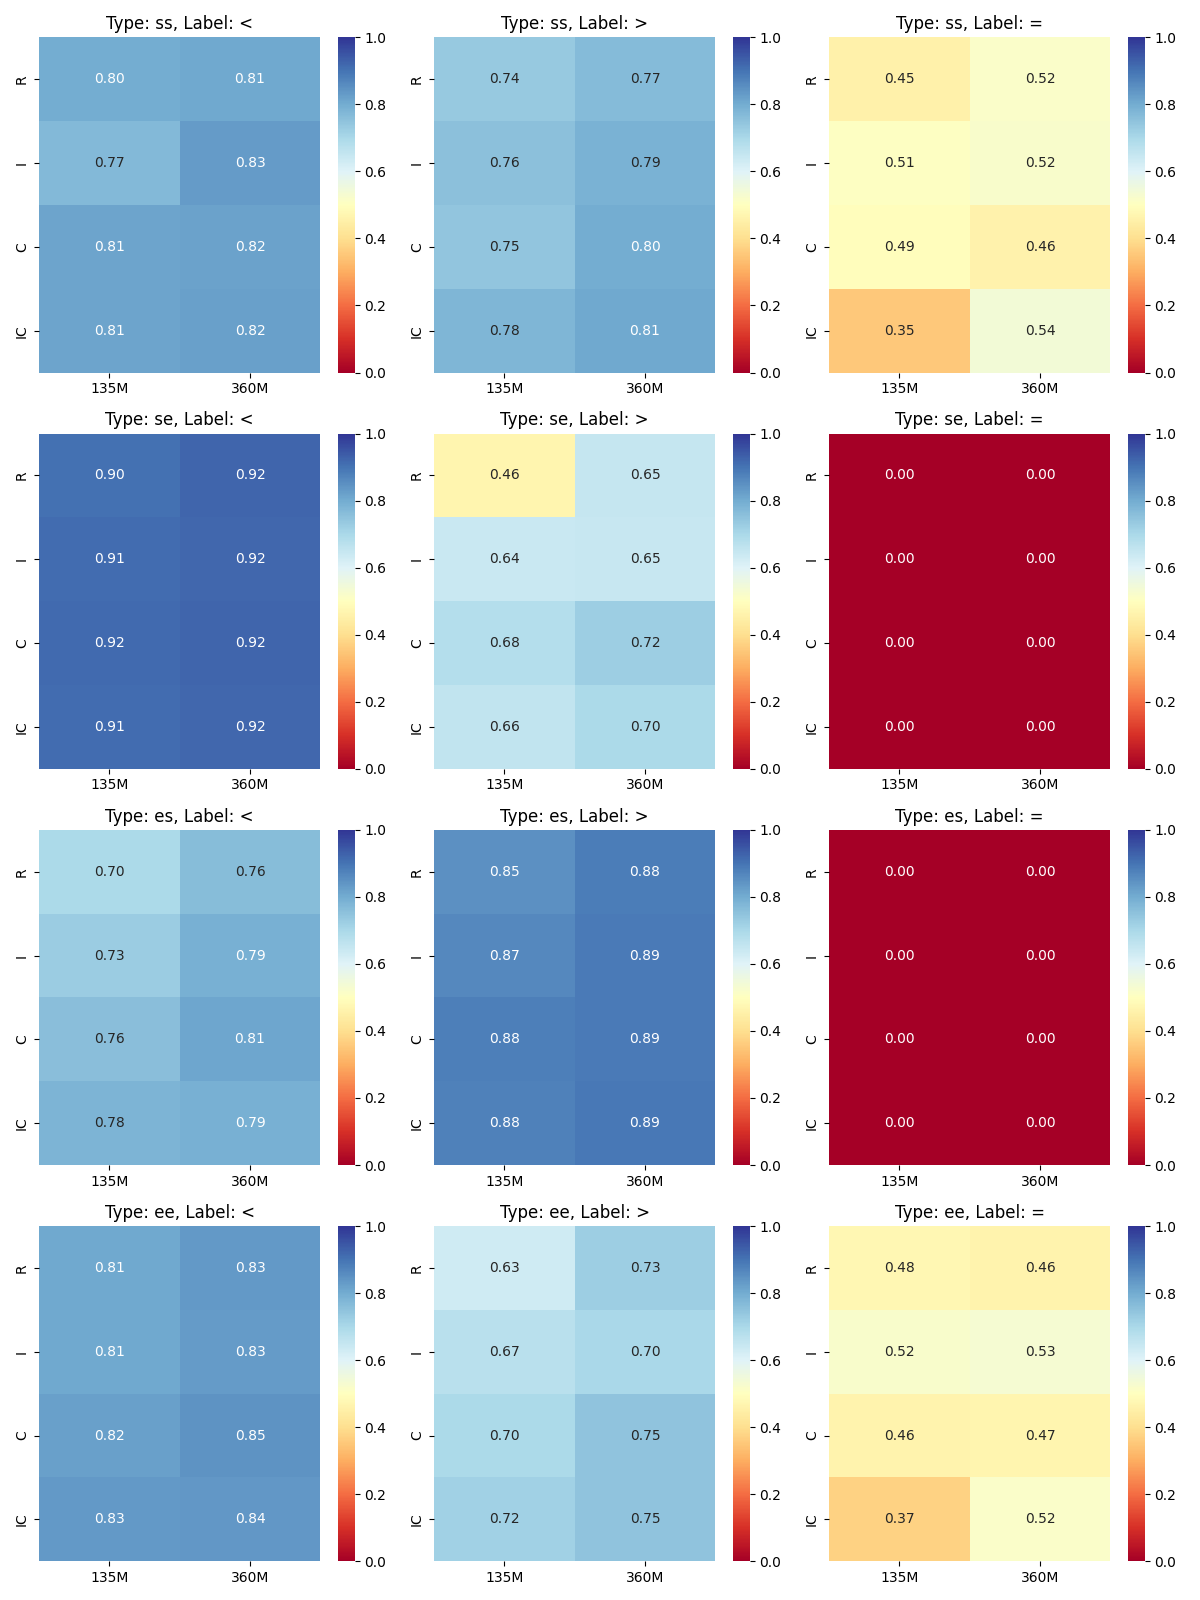
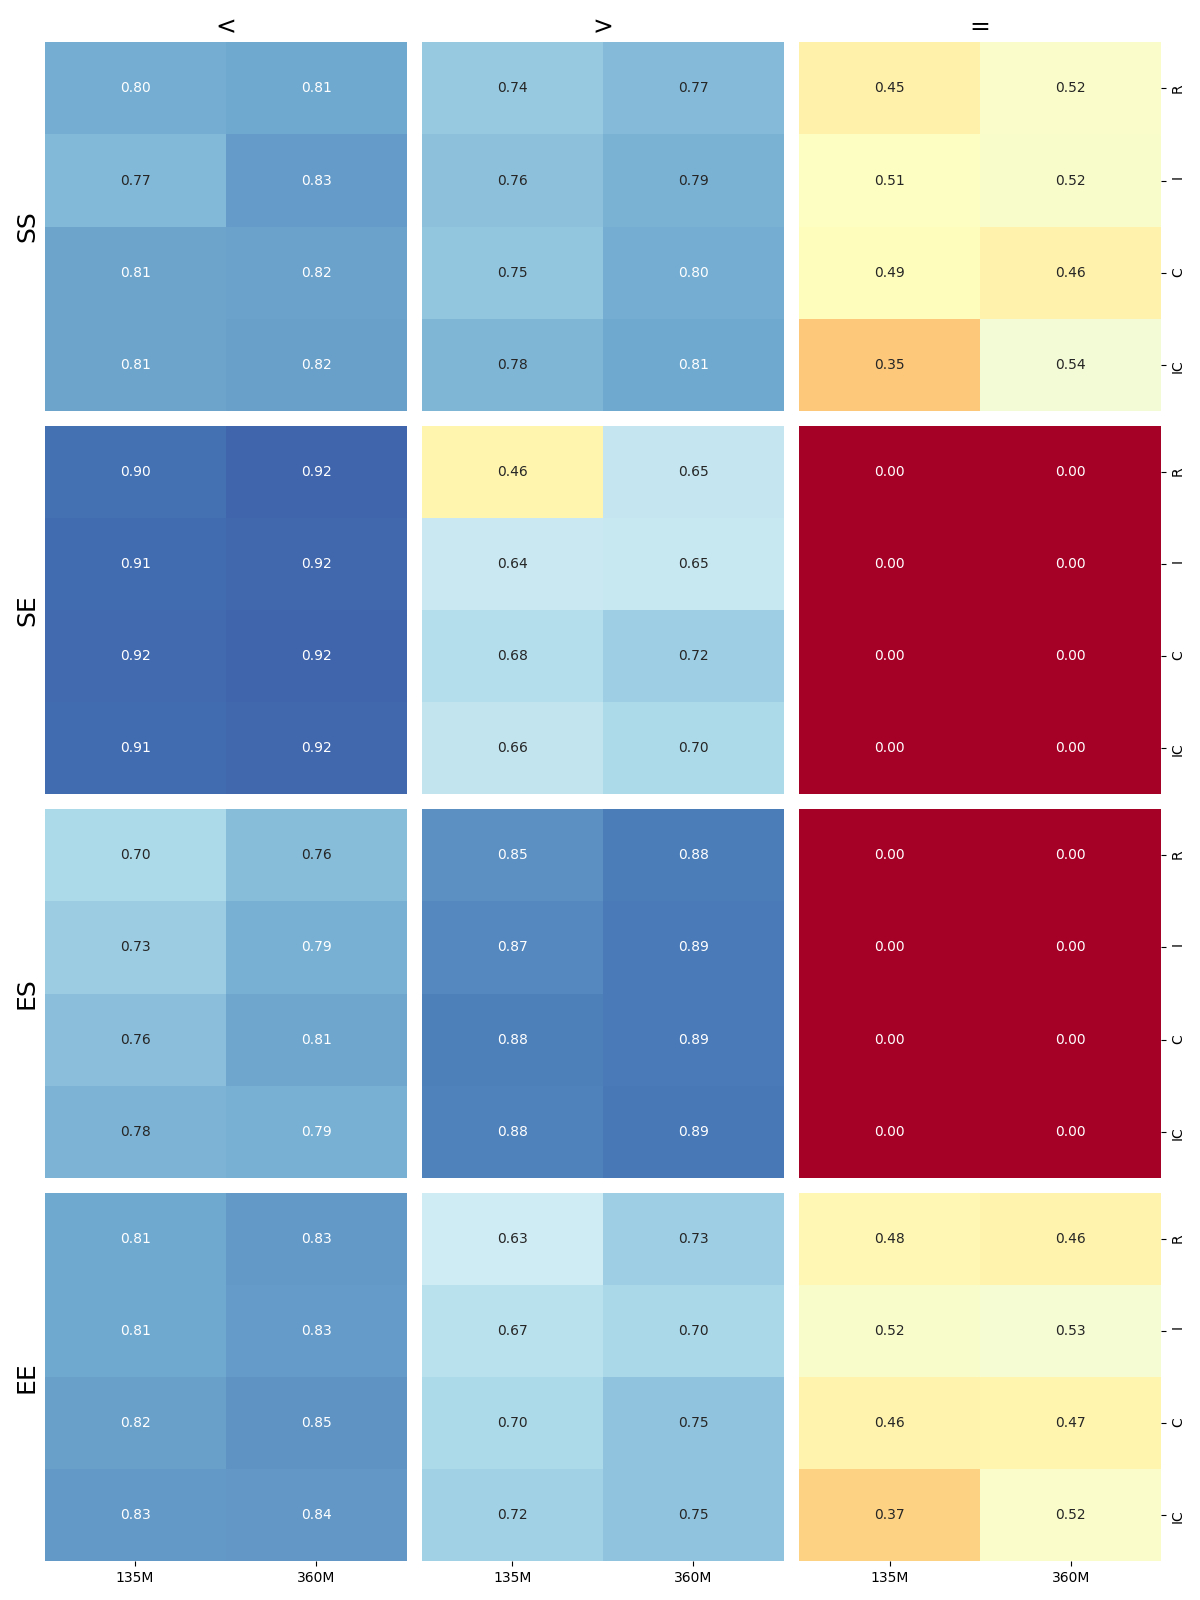
Cleaner heatmaps

diff --git a/scripts/utils/graphs/point_heatmaps.py b/scripts/utils/graphs/point_heatmaps.py
@@ -76,6 +76,9 @@ def create_point_heatmaps():
     for i, type_ in enumerate(TYPES):
         for j, label in enumerate(LABELS):
             ax = axes[i, j]
+
+            # Show x-labels (models) only for bottom row
+            # Show y-labels (datasets) only for rightmost column
             sns.heatmap(
                 data[type_][label],
                 annot=True,
@@ -83,12 +86,27 @@ def create_point_heatmaps():
                 cmap="RdYlBu",
                 vmin=0,
                 vmax=1,
-                xticklabels=MODELS,
-                yticklabels=DATASETS,
+                xticklabels=MODELS if i == len(TYPES) - 1 else False,
+                yticklabels=DATASETS if j == len(LABELS) - 1 else False,
                 ax=ax,
+                cbar=False,
             )
 
-            ax.set_title(f"Type: {type_}, Label: {label}")
+            # Move y-axis ticks to the right for rightmost column
+            if j == len(LABELS) - 1:
+                ax.yaxis.tick_right()
+
+            # Only show label in the top row
+            if i == 0:
+                ax.set_title(label.upper(), fontsize=18)
+            else:
+                ax.set_title("")
+
+            # Only show type on the left side
+            if j == 0:
+                ax.set_ylabel(type_.upper(), fontsize=18)
+            else:
+                ax.set_ylabel("")
 
     plt.tight_layout()
     return fig
